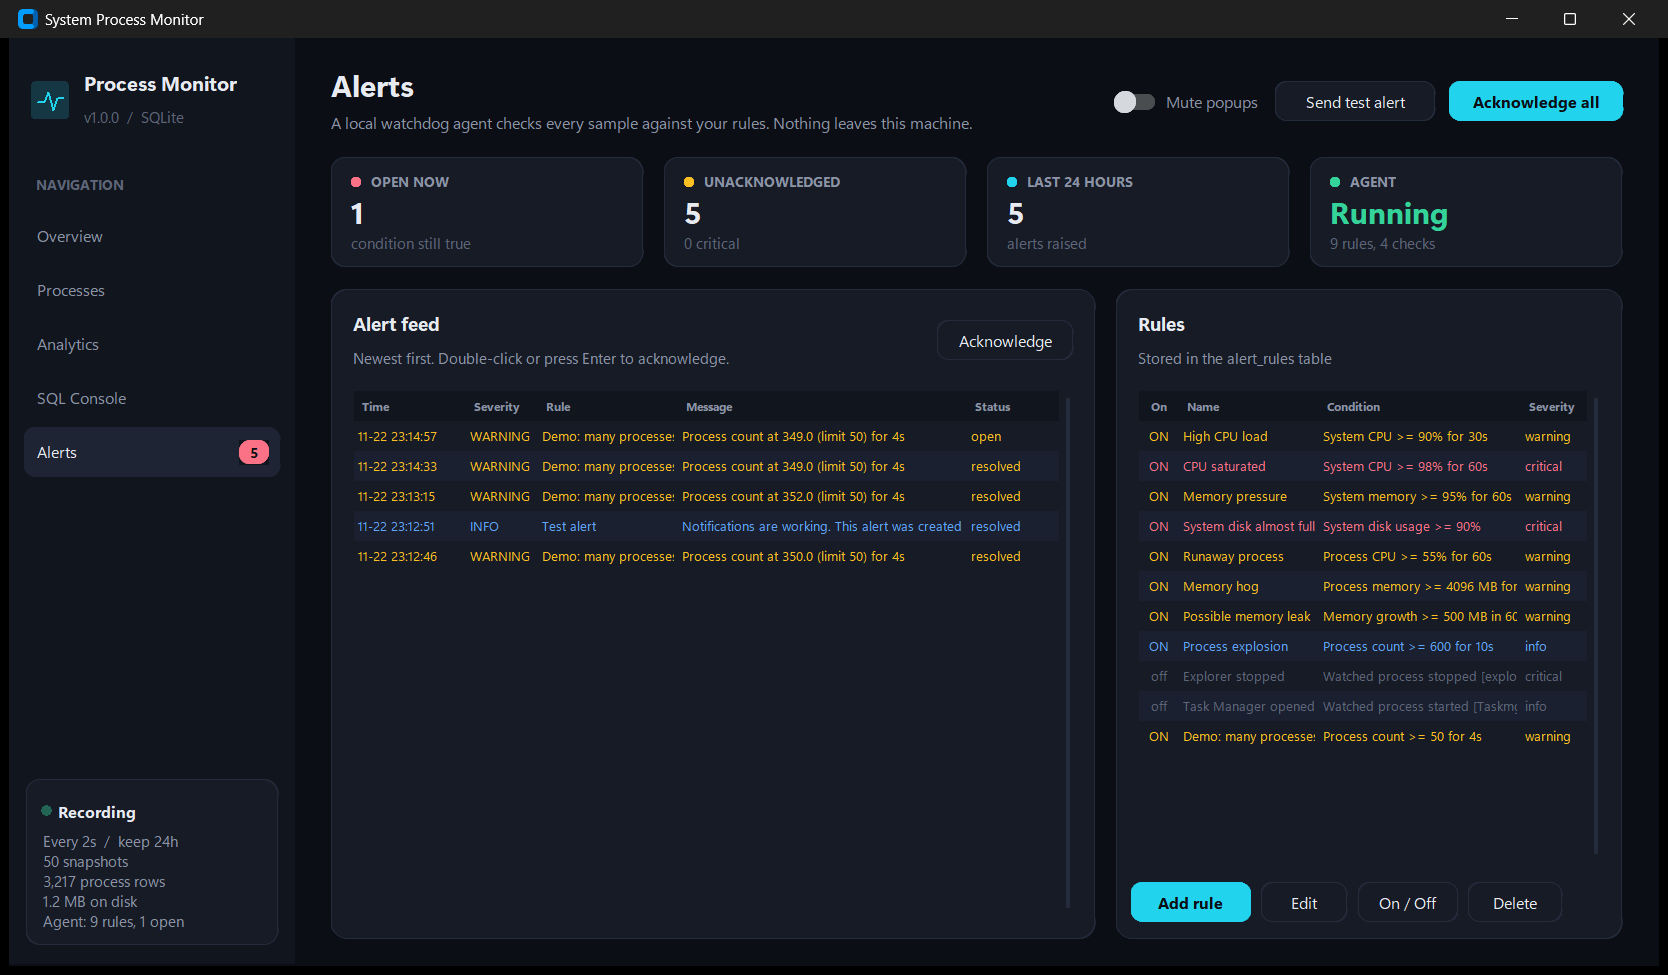
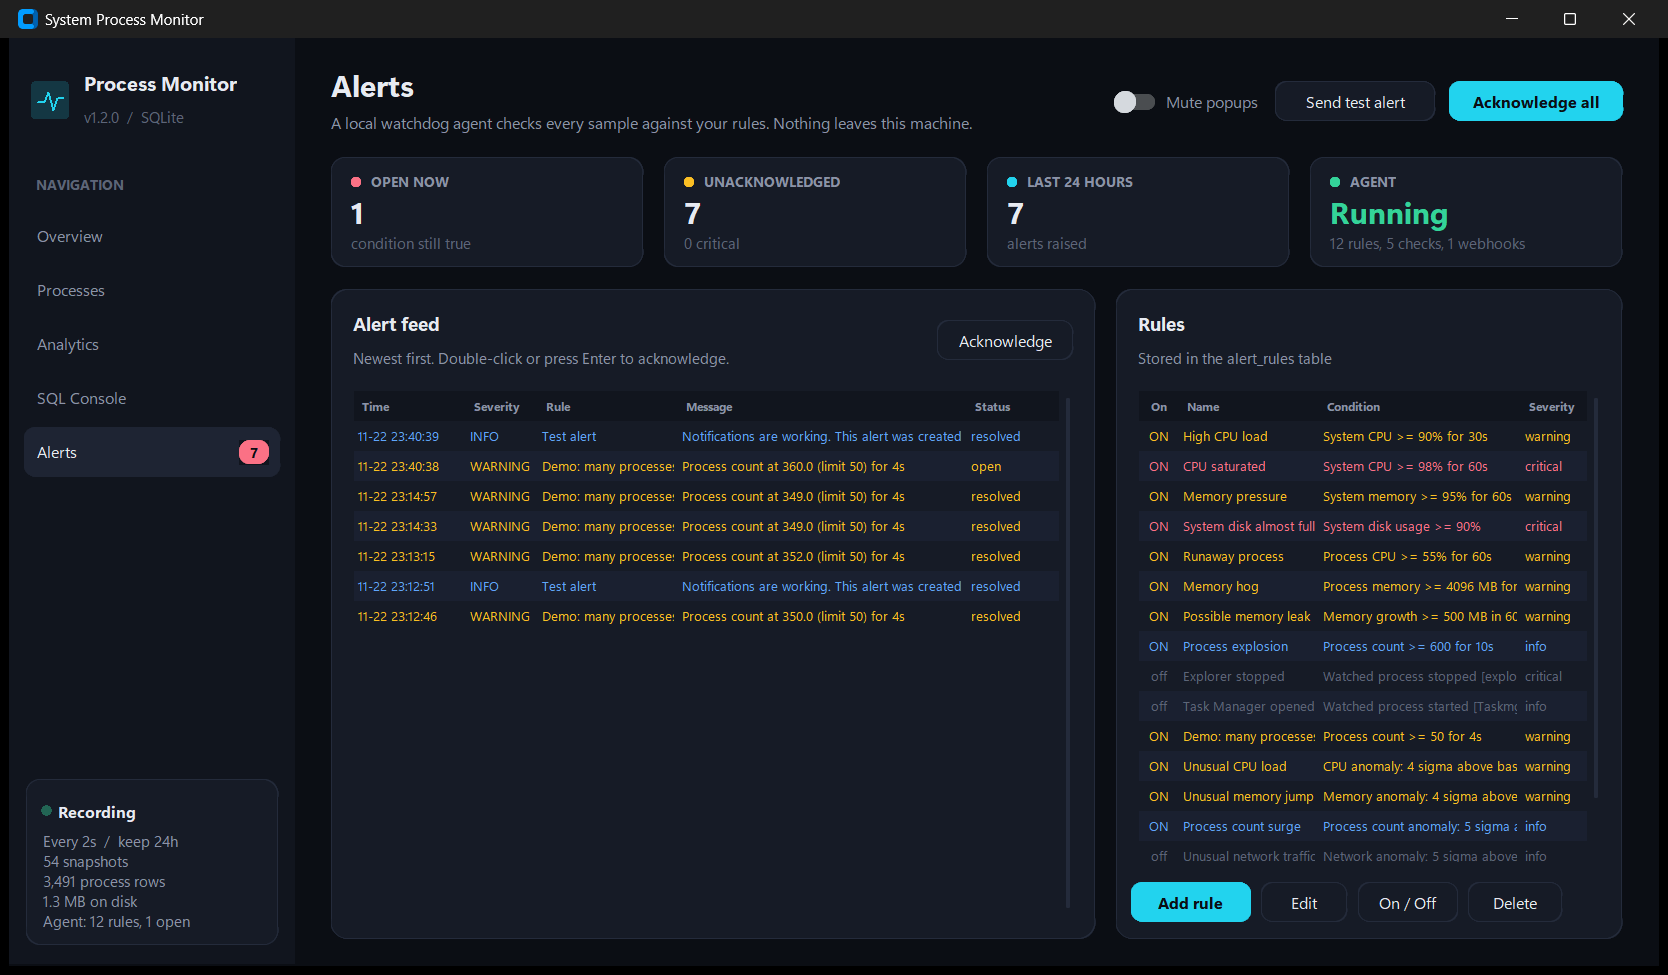
Document anomaly detection and webhooks, bump version to 1.2.0

diff --git a/spm/__init__.py b/spm/__init__.py
@@ -1,4 +1,4 @@
 """System Process Monitor - a live process monitor with SQLite-backed history."""
 
-__version__ = "1.1.0"
+__version__ = "1.2.0"
 __app_name__ = "System Process Monitor"

diff --git a/README.md b/README.md
@@ -2,7 +2,7 @@
 
 # System Process Monitor
 
-**A modern desktop process monitor with a local watchdog agent. It records everything it sees into SQLite, raises alerts when something looks wrong, and lets you interrogate the history with real SQL.**
+**A modern desktop process monitor with a local watchdog agent. It records everything it sees into SQLite, learns what normal looks like, raises alerts when something deviates, forwards them as incidents over webhooks, and lets you interrogate the history with real SQL.**
 
 [![Python](https://img.shields.io/badge/Python-3.9%2B-3776AB?style=for-the-badge&logo=python&logoColor=white)](https://www.python.org/)
 [![SQLite](https://img.shields.io/badge/SQLite-WAL%20mode-003B57?style=for-the-badge&logo=sqlite&logoColor=white)](https://www.sqlite.org/)
@@ -11,11 +11,13 @@
 [![Docker](https://img.shields.io/badge/Docker-headless%20agent-2496ED?style=for-the-badge&logo=docker&logoColor=white)](#docker)
 
 [![Platform](https://img.shields.io/badge/platform-Windows%20%7C%20Linux%20%7C%20macOS-0B0E14?style=flat-square)](#requirements)
-[![Version](https://img.shields.io/badge/version-1.1.0-22D3EE?style=flat-square)](#changelog)
+[![Version](https://img.shields.io/badge/version-1.2.0-22D3EE?style=flat-square)](#changelog)
 [![Agent](https://img.shields.io/badge/watchdog%20agent-100%25%20local-FB7185?style=flat-square)](#watchdog-agent)
+[![Anomaly detection](https://img.shields.io/badge/anomaly%20detection-EWMA%20%2B%20z--score-F59E0B?style=flat-square)](#anomaly-detection)
+[![Webhooks](https://img.shields.io/badge/webhooks-JSON%20incidents-0EA5E9?style=flat-square)](#webhooks)
 [![License](https://img.shields.io/badge/license-MIT-34D399?style=flat-square)](LICENSE)
 [![SQL](https://img.shields.io/badge/SQL-CTEs%20%C2%B7%20window%20functions%20%C2%B7%20views-A78BFA?style=flat-square)](sql/reports.sql)
-[![Tests](https://img.shields.io/badge/tests-85%20passed-34D399?style=flat-square&logo=pytest&logoColor=white)](#running-the-tests)
+[![Tests](https://img.shields.io/badge/tests-120%20passed-34D399?style=flat-square&logo=pytest&logoColor=white)](#running-the-tests)
 [![Code style](https://img.shields.io/badge/code%20style-PEP%208-FBBF24?style=flat-square)](https://peps.python.org/pep-0008/)
 
 <br>
@@ -34,6 +36,8 @@
 - [Quick start](#quick-start)
 - [Command-line options](#command-line-options)
 - [Watchdog agent](#watchdog-agent)
+  - [Anomaly detection](#anomaly-detection)
+  - [Webhooks](#webhooks)
 - [Docker](#docker)
 - [How it works](#how-it-works)
 - [Database schema](#database-schema)
@@ -66,7 +70,9 @@ full SQL console to answer those questions yourself.
 | **Process explorer** | Every running process with PID, user, CPU, memory, threads and start time. Click-to-sort columns, instant filter, a freeze switch and **End task** (with confirmation and an audit trail). |
 | **Persistent history** | Machine-wide snapshots plus the heaviest processes per tick are written to SQLite in WAL mode, with automatic retention pruning. |
 | **Watchdog agent** | A local agent evaluates rules on every sample (CPU, memory, disk, per-process load, memory leaks, processes starting or stopping), keeps alerts open until the condition clears, and notifies you with desktop popups and a sound. Runs inside the app or on its own with `--headless`. |
-| **Analytics** | Eight pre-built reports (top CPU, memory heavyweights, per-minute load, CPU spikes with culprits, memory growth, sessions, audit log, alert history) over a selectable time window. |
+| **Anomaly detection** | Rolling EWMA baselines with z-scores for CPU, memory, process count, network and disk I/O. The agent alerts on unusual deviations instead of fixed limits, and the baselines survive restarts. |
+| **Webhooks** | Alerts are forwarded as JSON incidents (`alert.fired` / `alert.resolved`) to any webhook or REST endpoint, with a stable `dedup_key`, retries and a delivery log in SQL. Works with Slack and Discord out of the box. |
+| **Analytics** | Ten pre-built reports (top CPU, memory heavyweights, per-minute load, CPU spikes with culprits, memory growth, sessions, audit log, alert history, learned baselines, webhook deliveries) over a selectable time window. |
 | **SQL console** | Syntax-highlighted editor, schema browser, example library, CSV export. The connection is opened **read-only**, and runaway queries are cancelled after 8 seconds. |
 | **Fast on Windows** | Process data comes from a single `NtQuerySystemInformation` call, the same source Task Manager uses, instead of opening every process one by one. |
 | **Restart friendly** | The dashboard charts are pre-filled from the database, so restarting the app does not leave you staring at empty graphs. |
@@ -116,6 +122,7 @@ The database is created on first run at `data/monitor.db`.
 ```text
 python main.py [--interval SECONDS] [--db PATH] [--retention HOURS] [--top N]
                [--no-agent] [--no-sound] [--headless [--run-for SECONDS]]
+               [--webhook URL ...] [--webhook-min-severity LEVEL]
 ```
 
 | Option | Default | Description |
@@ -128,6 +135,8 @@ python main.py [--interval SECONDS] [--db PATH] [--retention HOURS] [--top N]
 | `--no-sound` | off | Show alert popups silently. |
 | `--headless` | off | Run the collector and the agent in the console, without a window. |
 | `--run-for` | `0` | With `--headless`: exit after this many seconds (0 = until Ctrl+C). |
+| `--webhook` | none | Forward alerts to this URL. Repeat it for several endpoints. Also read from `SPM_WEBHOOKS` (comma separated). |
+| `--webhook-min-severity` | `warning` | Lowest severity sent to `--webhook` URLs: `info`, `warning` or `critical`. Also `SPM_WEBHOOK_MIN_SEVERITY`. |
 
 Example: sample every second and keep a full week of data.
 
@@ -137,9 +146,10 @@ python main.py --interval 1 --retention 168
 
 ## Watchdog agent
 
-The agent is a plain Python thread that lives on your machine. It does not call any network service,
+The agent is a plain Python thread that lives on your machine. It does not use any cloud service,
 API or language model: it reads the samples the collector produces, checks them against the rules in
-the `alert_rules` table and writes what it finds to the `alerts` table.
+the `alert_rules` table and writes what it finds to the `alerts` table. The only outgoing traffic is
+to the webhook URLs you configure yourself.
 
 <div align="center">
 <img src="docs/screenshots/rule-editor.png" alt="Rule editor" width="380">
@@ -171,8 +181,14 @@ An alert stays **open** while the condition is true and is **resolved** automati
 | `memory_growth_mb` | per process | A process that grew by 500 MB in 10 minutes |
 | `process_started` | watch | `Taskmgr.exe` was opened |
 | `process_stopped` | watch | No `explorer.exe` has been running for 5 s |
+| `anomaly_system_cpu` | baseline | CPU 4 standard deviations above its learned normal for 20 s |
+| `anomaly_system_memory` | baseline | Memory use jumped 4 sigma above normal |
+| `anomaly_process_count` | baseline | Sudden surge in the number of processes |
+| `anomaly_network` | baseline | Network traffic far above its usual level |
+| `anomaly_disk_io` | baseline | Disk reads and writes far above their usual level |
 
-Ten rules are seeded the first time a database is created (two of them disabled, as examples).
+Fifteen rules are seeded the first time a database is created: ten threshold rules and five anomaly rules
+(four of them disabled, as examples). Upgrading from 1.1 adds only the anomaly rules.
 Edit them on the **Alerts** page, or straight in SQL:
 
 ```sql
@@ -184,6 +200,93 @@ VALUES ('Chrome too hungry', 'process_memory_mb', 2048, 30, 600, 'warning', 'chr
 
 Changes made on the Alerts page apply immediately; changes made from outside apply the next time the app starts.
 
+### Anomaly detection
+
+Fixed limits either fire all the time on a machine that is always busy, or miss problems on a machine
+that is usually idle. The anomaly rules compare each value with what is **normal for this machine**:
+
+- For every series (CPU, memory, process count, network, disk I/O) the agent keeps an exponentially
+  weighted moving average and variance (EWMA) with a 30-minute half-life.
+- Each new value gets a z-score against the baseline *before* it is learned:
+  `z = (value - mean) / max(std, floor)`. The rule fires when `z >= threshold` for `duration_s`.
+- The first 60 samples (about two minutes) are a warm-up with no anomaly alerts. During warm-up the
+  baseline behaves like a plain running mean and variance.
+- A per-series floor on the standard deviation (for example 2 % for CPU, 1 % for memory) stops a very
+  flat series from turning tiny wobbles into huge z-scores.
+- Baselines are checkpointed to the `baselines` table every 30 samples and on shutdown, so a restart
+  continues from where it stopped. A baseline older than six hours is relearned.
+
+Because the baseline keeps moving, a slow shift (a machine that gets busier through the afternoon)
+becomes the new normal, while a sudden jump stands out. It does not model daily or weekly seasonality:
+the 9 am login rush is compared with the last half hour, not with yesterday at 9 am.
+
+See what the agent has learned with the *Learned baselines* report, or:
+
+```sql
+SELECT series, ROUND(mean, 1) AS normal, ROUND(std, 2) AS std, samples FROM baselines;
+```
+
+### Webhooks
+
+Every alert can be forwarded as an incident to a webhook or REST endpoint, for example a ticketing
+system, Slack, Discord, Teams through a workflow, n8n or your own API.
+
+```bash
+python main.py --webhook https://example.com/incidents --webhook-min-severity warning
+```
+
+Endpoints can also live in the database, each with its own minimum severity:
+
+```sql
+INSERT INTO webhook_endpoints (name, url, min_severity)
+VALUES ('ticketing', 'https://tickets.example.com/api/incidents', 'critical');
+```
+
+The agent already deduplicates: an incident is raised once, stays open while the condition persists, and
+a cooldown applies afterwards. The dispatcher sends exactly one `alert.fired` when an incident opens and
+one `alert.resolved` when it closes. One-shot events, such as a watched process starting, send only
+`alert.fired`. Every incident carries a stable `dedup_key` (`host:rule:pid`, or `host:rule:system` for
+machine-wide rules), so a ticketing system can merge repeats into one ticket.
+
+```json
+{
+  "source": "system-process-monitor",
+  "version": "1.2.0",
+  "event": "alert.fired",
+  "host": "build-server",
+  "incident": {
+    "id": "build-server-42",
+    "dedup_key": "build-server:5:4120",
+    "status": "open",
+    "severity": "warning",
+    "rule": "Runaway process",
+    "metric": "process_cpu",
+    "title": "Runaway process",
+    "message": "game.exe (PID 4120): process cpu at 63.0% (limit 50%) for 60s",
+    "value": 63.0,
+    "pid": 4120,
+    "process": "game.exe",
+    "opened_at": "2026-11-22T22:14:33+00:00",
+    "resolved_at": null
+  },
+  "text": "[WARNING] Runaway process on build-server: game.exe (PID 4120): ...",
+  "content": "[WARNING] Runaway process on build-server: game.exe (PID 4120): ..."
+}
+```
+
+`text` is what Slack and Mattermost display, and `content` is what Discord displays, so those work
+without an adapter.
+
+- Requests are `POST` with `Content-Type: application/json`. A 2xx response counts as delivered.
+- Network errors, `429` and `5xx` responses are retried three times with exponential backoff. Other `4xx`
+  responses are not retried.
+- Deliveries run on their own thread, so a slow endpoint never delays monitoring. When the agent stops,
+  the queue is drained first.
+- Every delivery is logged in `webhook_deliveries`; see the *Webhook deliveries* report. Only the
+  host name of the URL is stored, because webhook URLs often contain a secret token.
+- **Send test alert** on the Alerts page posts an `alert.test` event to every endpoint, regardless of
+  severity filters.
+
 ### Running only the agent
 
 ```bash
@@ -191,7 +294,7 @@ python main.py --headless
 ```
 
 ```text
-Watchdog agent running locally: 8 enabled rules, sampling every 2s.
+Watchdog agent running locally: 11 enabled rules, sampling every 2s.
 Database: data/monitor.db
 Press Ctrl+C to stop.
 
@@ -237,6 +340,7 @@ docker run -d --name spm-agent --pid=host -v spm-data:/data \
 | Health check | `python -m spm.healthcheck` reports unhealthy if no snapshot was written in the last 30 s. |
 | Stopping | `docker stop` sends SIGTERM; the agent finishes the current sample, closes open alerts and exits. |
 | Logs | Alerts are printed one per line, without colour codes, so `docker logs` stays readable. |
+| Webhooks | Set `SPM_WEBHOOKS` (comma separated URLs) and optionally `SPM_WEBHOOK_MIN_SEVERITY`, for example `SPM_WEBHOOKS=https://example.com/hook docker compose up -d`. |
 | Rules | Edit them with SQL: `docker exec -it spm-agent python -c "..."`, or copy the database out (below), edit it in the desktop app and copy it back. |
 
 Copy the database out to open it in the desktop app or any SQLite tool:
@@ -260,8 +364,9 @@ flowchart LR
         B --> C[(SQLite<br/>WAL mode)]
     end
     B -- every sample --> W[Watchdog agent<br/>thread]
-    W -- alerts --> C
+    W -- alerts, baselines --> C
     W -- new alerts --> D
+    W -- fired / resolved --> X[Webhook dispatcher<br/>thread] --> Y([Webhook / REST<br/>endpoints])
     B -- latest sample --> D[Tk main loop<br/>polls every 250 ms]
     D --> E[Overview]
     D --> F[Processes]
@@ -285,6 +390,7 @@ erDiagram
     sessions ||--o{ system_snapshots : records
     system_snapshots ||--o{ process_samples : contains
     alert_rules ||--o{ alerts : raises
+    alerts ||--o{ webhook_deliveries : forwarded
     sessions {
         INTEGER id PK
         REAL started_at
@@ -336,6 +442,31 @@ erDiagram
         REAL resolved_at
         INTEGER acknowledged
     }
+    baselines {
+        TEXT series PK
+        REAL mean
+        REAL var
+        REAL std
+        INTEGER samples
+        REAL updated_at
+    }
+    webhook_endpoints {
+        INTEGER id PK
+        TEXT name
+        TEXT url
+        TEXT min_severity
+        INTEGER enabled
+    }
+    webhook_deliveries {
+        INTEGER id PK
+        REAL ts
+        INTEGER alert_id FK
+        TEXT endpoint
+        TEXT event
+        INTEGER ok
+        INTEGER status_code
+        INTEGER attempts
+    }
     process_events {
         INTEGER id PK
         REAL ts
@@ -371,6 +502,8 @@ All reports live in [`sql/reports.sql`](sql/reports.sql) and are parsed at start
 | Recording sessions | `LEFT JOIN` aggregate over every run of the app |
 | Action audit log | Every **End task** attempt and its outcome |
 | Alert history | Conditional aggregates such as `SUM(resolved_at IS NULL)` and mean time to resolve per rule |
+| Learned baselines | The EWMA state per series, with the level a 4-sigma alert would need |
+| Webhook deliveries | Success rate, retries and last error per endpoint, using `CASE` inside `MAX` |
 
 Here is the spike report, which pairs every CPU spike with the process responsible for it:
 
@@ -432,7 +565,7 @@ SystemProcessMonitor/
 |-- docker-compose.yml
 |-- .dockerignore
 |-- pytest.ini
-|-- tests/                  pytest suite (database, reports, collector, agent, docker, helpers)
+|-- tests/                  pytest suite (database, reports, collector, agent, baselines, webhooks, docker)
 |-- sql/
 |   |-- schema.sql          Tables, indexes and views (idempotent)
 |   `-- reports.sql         Analytics reports with name/title/description headers
@@ -440,6 +573,8 @@ SystemProcessMonitor/
 |   |-- app.py              Main window, sidebar, page routing, polling loop
 |   |-- collector.py        Background sampler thread
 |   |-- agent.py            Local watchdog agent: rule engine and alert lifecycle
+|   |-- baseline.py         EWMA baselines and z-scores for anomaly detection
+|   |-- webhooks.py         Incident payloads, delivery with retries, dispatcher thread
 |   |-- notify.py           Desktop popups and alert sounds
 |   |-- headless.py         Console mode (--headless)
 |   |-- healthcheck.py      Health probe used by the Docker image
@@ -469,7 +604,9 @@ pytest
 | `tests/test_database.py` | Schema bootstrap, WAL mode, inserts, retention pruning, read-only enforcement, row limits, query timeout |
 | `tests/test_reports.py` | Every report runs on an empty database, and returns the expected answers on a known fixture |
 | `tests/test_collector.py` | Process enumeration, CPU accounting, the Windows fast path against psutil, the live collector thread |
-| `tests/test_agent.py` | Every rule type, durations, cooldowns, auto-resolve, rule reloads, default rule seeding, the agent thread end to end |
+| `tests/test_agent.py` | Every rule type including anomaly rules, durations, cooldowns, auto-resolve, rule reloads, baseline persistence, default rule seeding, the agent thread end to end |
+| `tests/test_baseline.py` | EWMA maths: warm-up, plain mean/variance equivalence, half-life, noise versus spikes, the std floor |
+| `tests/test_webhooks.py` | A real local HTTP server: payload shape, fired/resolved, deduplication, severity filter, retries, 4xx/5xx handling, secret-safe logging |
 | `tests/test_docker.py` | The headless path never imports Tk, the health check, `.dockerignore` and Dockerfile consistency, a full headless run |
 | `tests/test_theme.py` | Formatting helpers, colour blending, table sort order, the SQL tokenizer |
 
@@ -493,10 +630,19 @@ The tests use temporary databases and never touch `data/monitor.db`. No window i
 | `ModuleNotFoundError: customtkinter` or `psutil` | Run `pip install -r requirements.txt` with the same interpreter you use to start the app. |
 | **End task** says "access denied" | System and service processes need elevated rights. Start the terminal or `run.bat` as administrator. |
 | Text looks blurry on a high-DPI screen | Make sure you are using the regular `python.exe`, not a compatibility-mode shortcut. CustomTkinter enables per-monitor DPI awareness automatically. |
+| Anomaly alerts right after the first start | The first two minutes are a warm-up, after that the baseline still needs some history to settle. Raise the threshold (for example to 5) if a rule is noisy on your machine. |
+| Webhook not arriving | Check the *Webhook deliveries* report: it shows the HTTP status and error per endpoint. Use **Send test alert** to try it without waiting for a real alert. |
 | Too many popups | Raise the threshold or cooldown of the noisy rule on the **Alerts** page, switch on *Mute popups*, or start with `--no-sound`. |
 | "database is locked" | Two instances share one database file. Close one of them or start the second with `--db other.db`. |
 
 ## Changelog
+
+### 1.2.0
+- Anomaly detection: EWMA baselines with z-scores for CPU, memory, process count, network and disk I/O,
+  persisted in the new `baselines` table, plus five seeded anomaly rules.
+- Webhooks: JSON incidents (`alert.fired`, `alert.resolved`, `alert.test`) with a `dedup_key`, retries with
+  backoff, a delivery log (`webhook_deliveries`) and endpoints from the CLI, the environment or SQL.
+- New reports: *Learned baselines* and *Webhook deliveries*.
 
 ### 1.1.0
 - Local watchdog agent with ten metrics, open/resolved alert lifecycle and cooldowns.
